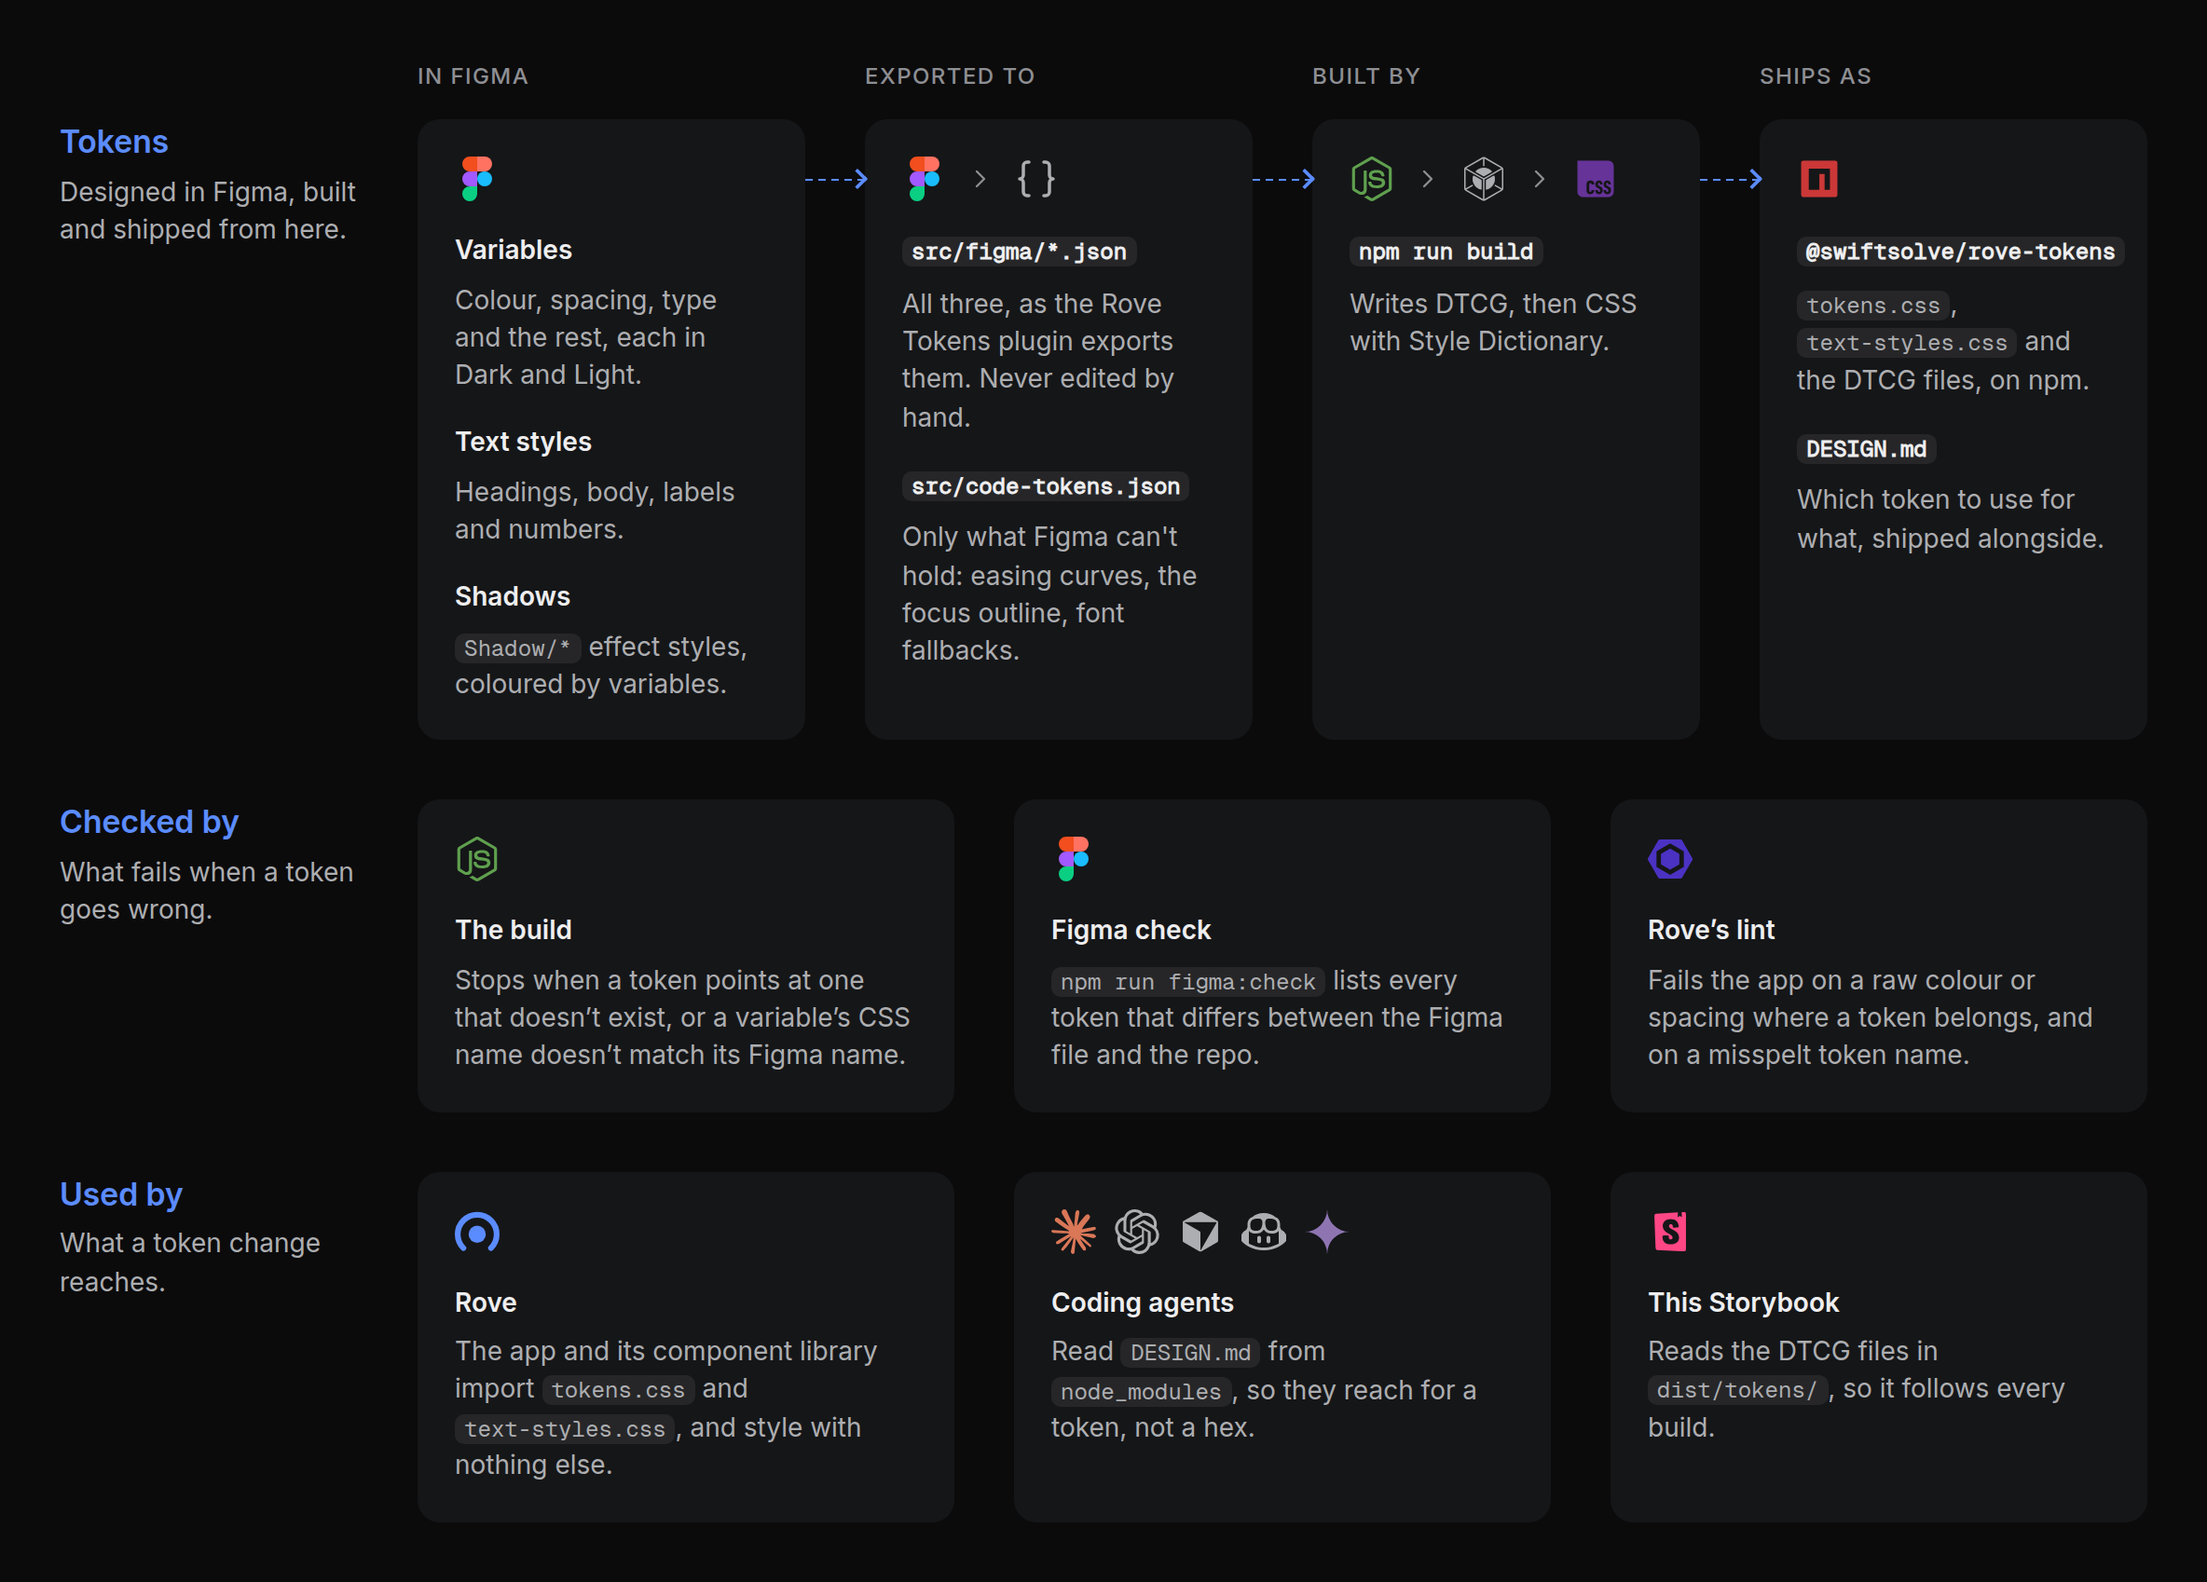
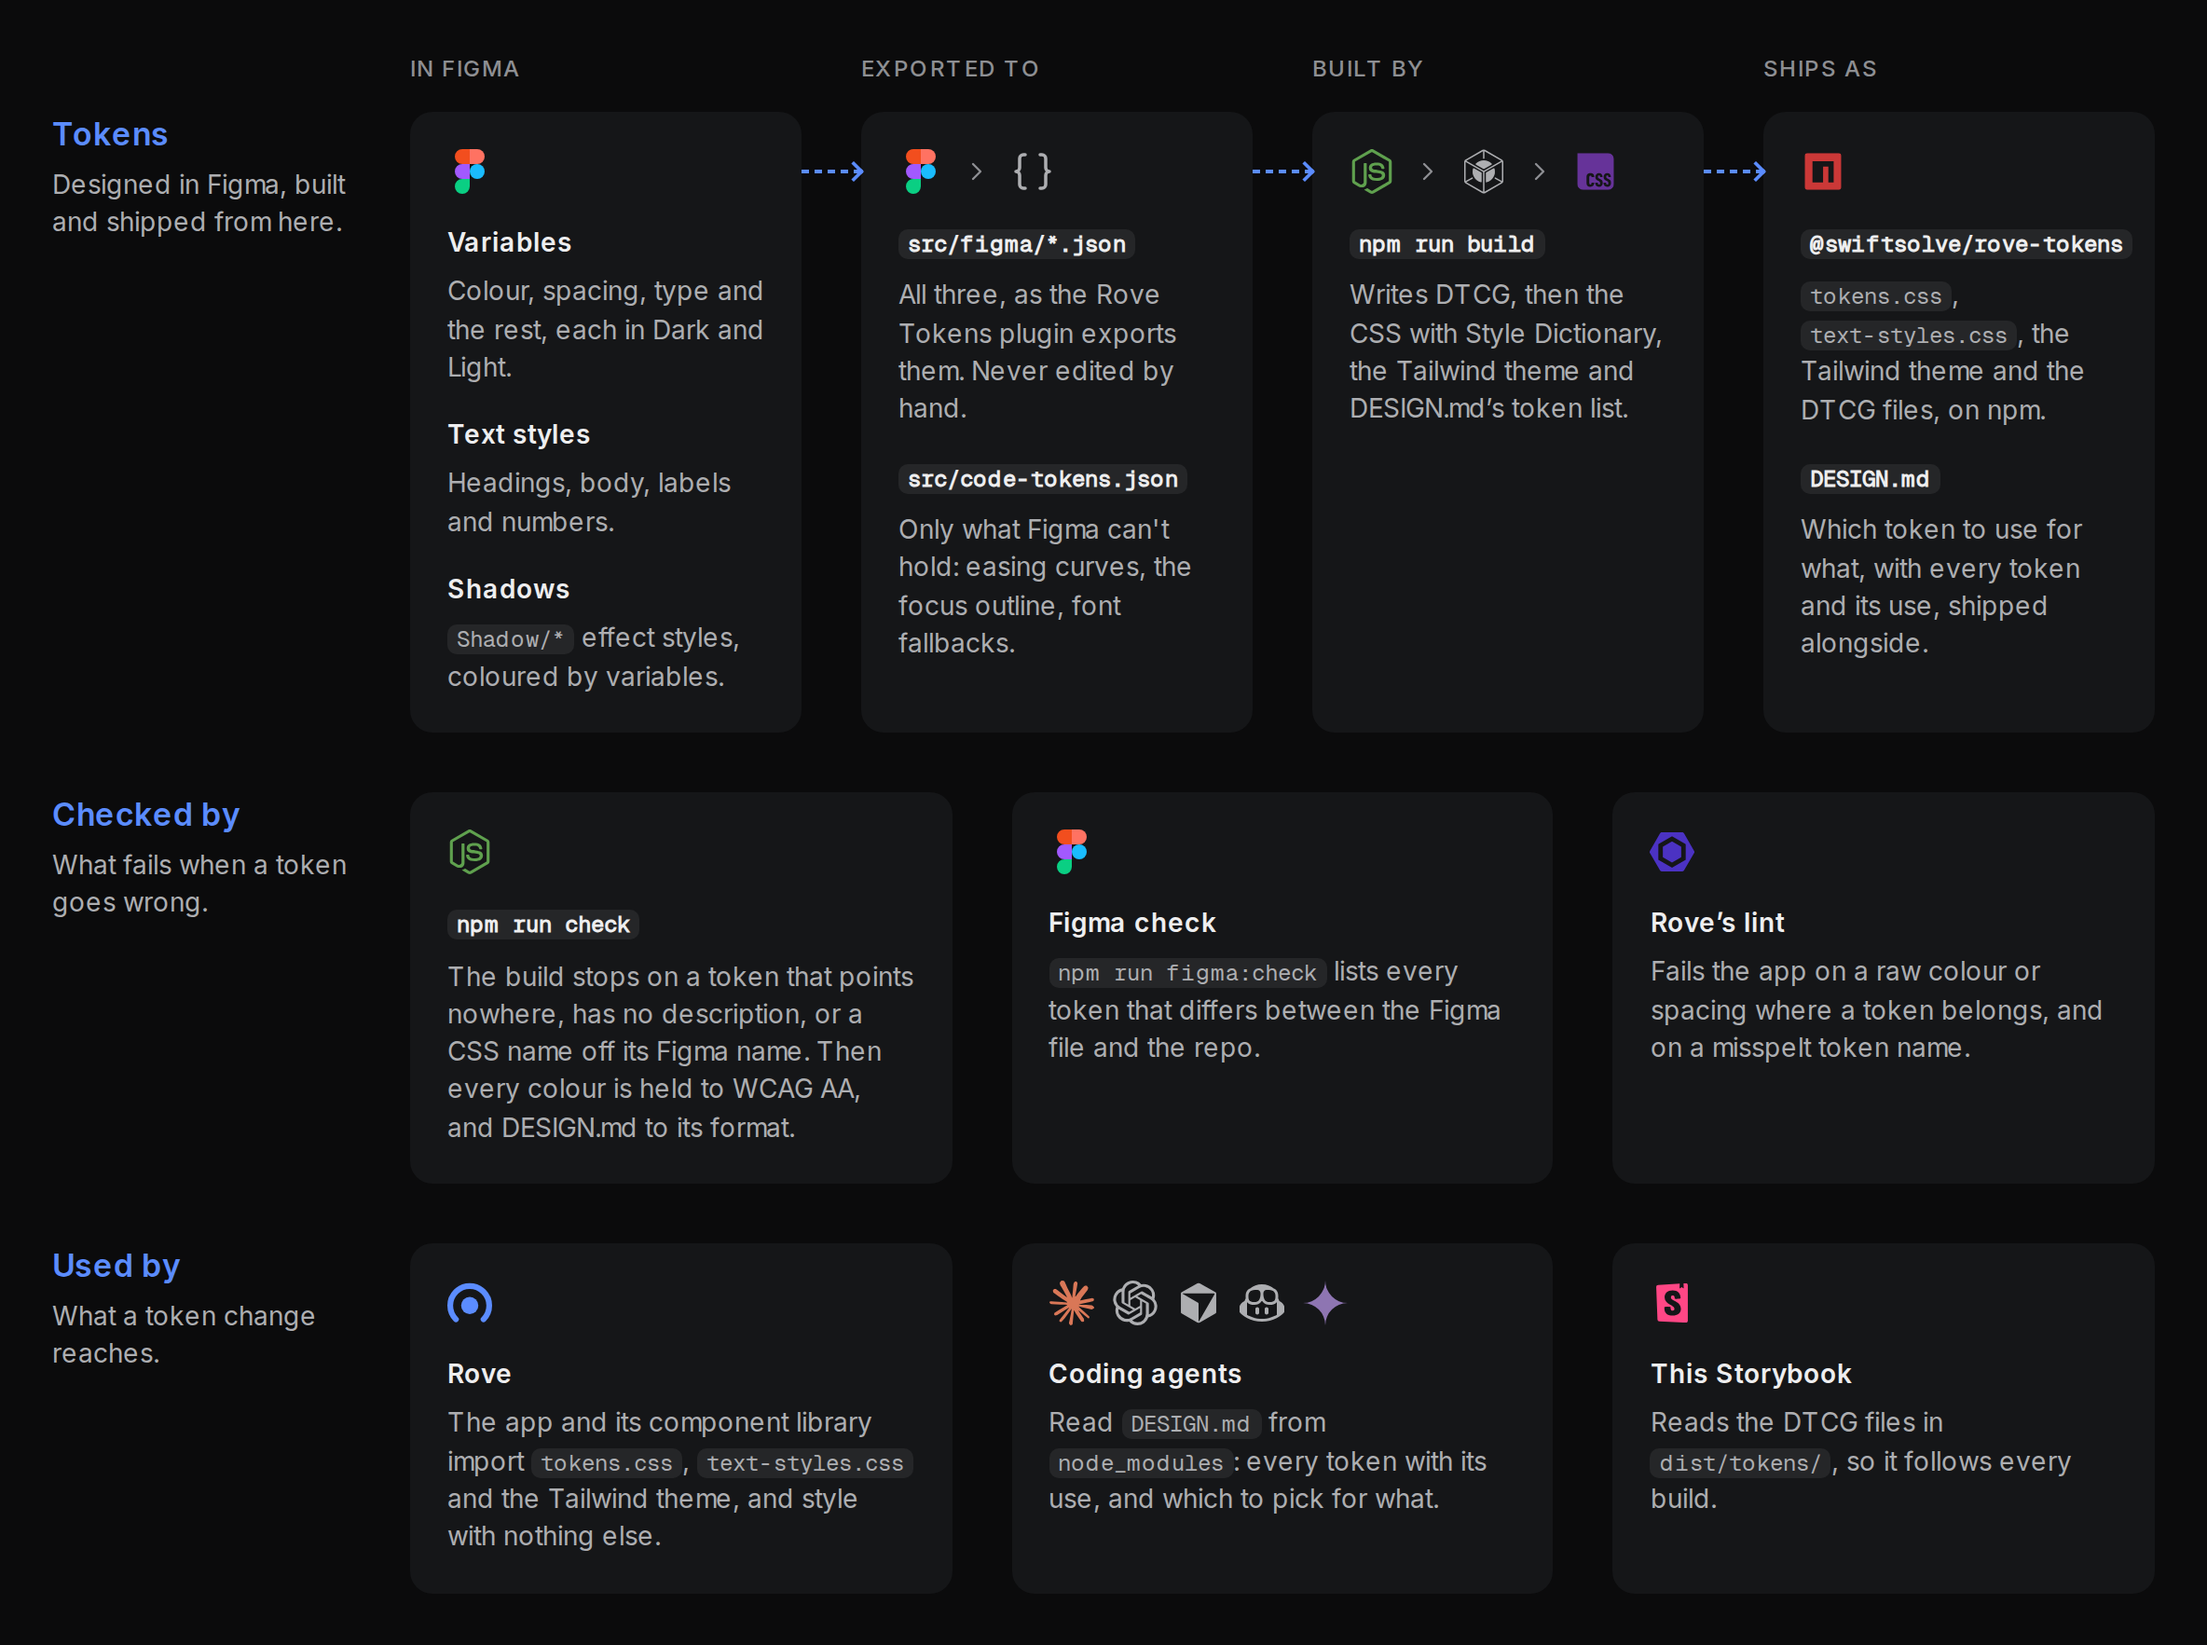
docs: the Introduction diagram and README's capture of it show the Tailwind theme, npm run check's checks, and DESIGN.md as the token list

diff --git a/stories/introduction.stories.jsx b/stories/introduction.stories.jsx
@@ -255,7 +255,7 @@ const PIPELINES = [
         items: [
           {
             name: '`npm run build`',
-            body: 'Writes DTCG, then CSS with Style Dictionary.',
+            body: 'Writes DTCG, then the CSS with Style Dictionary, the Tailwind theme and DESIGN.md’s token list.',
           },
         ],
       },
@@ -280,8 +280,8 @@ const PIPELINES = [
 const CHECKS = [
   {
     icon: 'node',
-    name: 'The build',
-    body: 'Stops when a token points at one that doesn’t exist, or a variable’s CSS name doesn’t match its Figma name.',
+    name: '`npm run check`',
+    body: 'The build stops on a token that points nowhere, has no description, or a CSS name off its Figma name. Then every colour is held to WCAG AA, and DESIGN.md to its format.',
   },
   {
     icon: 'figma',
@@ -299,13 +299,13 @@ const CONSUMERS = [
   {
     icon: 'rove',
     name: 'Rove',
-    body: 'The app and its component library import `tokens.css` and `text-styles.css`, and style with nothing else.',
+    body: 'The app and its component library import `tokens.css`, `text-styles.css` and the Tailwind theme, and style with nothing else.',
     href: COMPONENTS,
   },
   {
     icons: ['claude', 'openai', 'cursor', 'copilot', 'gemini'],
     name: 'Coding agents',
-    body: 'Read `DESIGN.md` from `node_modules`, so they reach for a token, not a hex.',
+    body: 'Read `DESIGN.md` from `node_modules`: every token with its use, and which to pick for what.',
   },
   {
     icon: 'storybook',

diff --git a/README.md b/README.md
@@ -102,7 +102,7 @@ To run Rove Tokens locally, `npm run storybook`. It opens on <http://localhost:6
 
 <picture>
   <source media="(prefers-color-scheme: dark)" srcset="docs/assets/how-it-works-dark.png">
-  <img src="docs/assets/how-it-works-light.png" width="100%" alt="Tokens: variables, text styles and shadows in Figma are exported to src/figma/*.json (with src/code-tokens.json beside them), built by npm run build, and ship as @swiftsolve/rove-tokens and DESIGN.md. Checked by the build, the Figma check and Rove's lint. Used by Rove, coding agents and the Storybook.">
+  <img src="docs/assets/how-it-works-light.png" width="100%" alt="Tokens: variables, text styles and shadows in Figma are exported to src/figma/*.json (with src/code-tokens.json beside them), built by npm run build, and ship as @swiftsolve/rove-tokens (tokens.css, text-styles.css, the Tailwind theme and DTCG) and DESIGN.md. Checked by npm run check, the Figma check and Rove's lint. Used by Rove, coding agents and the Storybook.">
 </picture>
 
 The diagram is the [Storybook's Introduction](https://rove.swiftsolve.net/storybook/tokens/). [What's where](#whats-where) lists the scripts behind each step.
